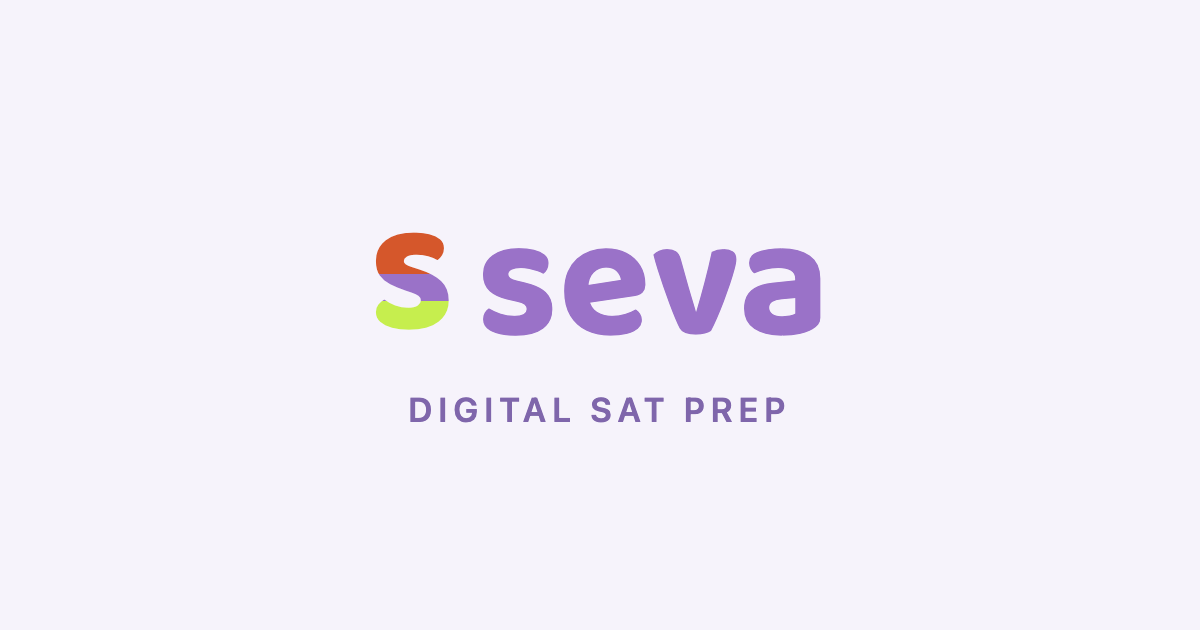
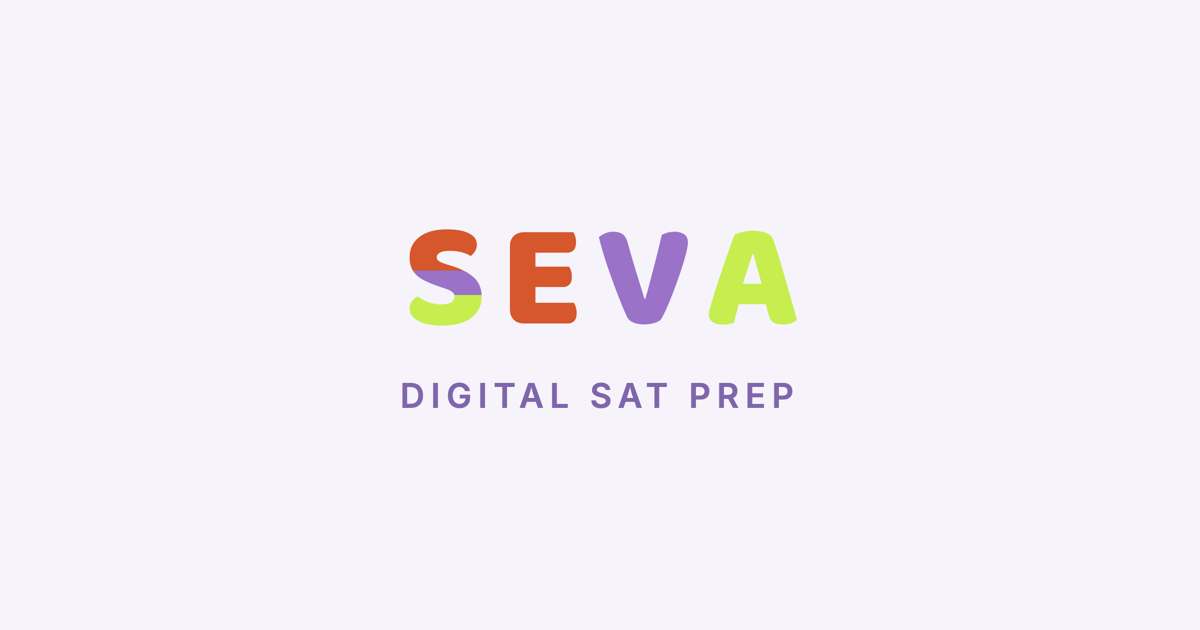
feat(brand): all-caps multicolor SEVA wordmark
Switch the wordmark from the "S seva" lockup to all-caps "SEVA" where the S
is the tri-color mark and each remaining letter takes one brand color —
E orange (#D5572B), V purple (#9A72C8), A lime (#C6EE4E) — per the new
artwork. Multi-color on every background (keeps the S consistent with the
collapsed sidebar mark); tone is still accepted for API compatibility.

Mark.jsx and the favicon/PWA/apple-touch icons are unchanged (the "S" mark
is identical). Regenerate the OG image with the new wordmark.

Verified: prod build clean, 1600 tests green, wordmark rendered and matched
to the artwork at header/mobile/boot sizes and on the navy sidebar via
Playwright.

Changed region(s): [[0.3083, 0.3619, 0.7092, 0.5429], [0.3083, 0.6032, 0.6783, 0.6937]]

diff --git a/src/components/ui/Wordmark.jsx b/src/components/ui/Wordmark.jsx
@@ -1,52 +1,52 @@
-// Wordmark.jsx — the SEVA brand lockup: the tri-color "S" mark + the rounded
-// lowercase "seva" wordmark (Baloo 2). One component feeds every render site
-// (landing header/footer, sidebar, mobile header, legal pages, boot screen) so
-// the mark stays identical everywhere.
+// Wordmark.jsx — the SEVA brand wordmark: all-caps "SEVA" in rounded Baloo 2
+// where the S is the tri-color mark and each remaining letter carries one brand
+// color — E orange, V purple, A lime. One component feeds every render site
+// (landing header/footer, sidebar, mobile header, legal pages, boot screen).
 //
-// `tone` controls the wordmark text color: "dark" (default) renders brand
-// purple for light backgrounds; "light" renders white for dark backgrounds
-// (the navy sidebar). The S mark is tri-color in both. `size` (sm/md/lg) scales
-// the lockup; pass `fontSize` (px) to override for special cases (boot screen).
+// The wordmark is intentionally multi-color on every background (it matches the
+// collapsed sidebar's tri-color S mark). `tone` is still accepted for API
+// compatibility but no longer changes the letter colors. `size` (sm/md/lg)
+// scales the lockup; pass `fontSize` (px) to override (boot screen).
 
 import React from 'react';
 import Mark, { LOGO_COLORS, LOGO_FONT } from './Mark';
 
 const SIZES = { sm: 18, md: 24, lg: 30 };
 
-const WORD_COLOR = {
-  dark:  LOGO_COLORS.purple, // on light backgrounds
-  light: '#FFFFFF',          // on dark backgrounds (navy sidebar)
-};
+// Each letter after the tri-color S takes one band color, in band order.
+const LETTERS = [
+  { ch: 'E', color: LOGO_COLORS.orange },
+  { ch: 'V', color: LOGO_COLORS.purple },
+  { ch: 'A', color: LOGO_COLORS.lime },
+];
 
+// eslint-disable-next-line no-unused-vars
 const Wordmark = ({ size = 'md', tone = 'dark', fontSize, as: As = 'span', style, ...rest }) => {
   const px = fontSize || SIZES[size] || SIZES.md;
-  const wordColor = WORD_COLOR[tone] || WORD_COLOR.dark;
+  const letterStyle = {
+    fontFamily: LOGO_FONT,
+    fontWeight: 800,
+    fontSize: `${px}px`,
+    lineHeight: 0.9,
+    letterSpacing: '-0.02em',
+  };
   return (
     <As
-      aria-label="Seva"
+      aria-label="SEVA"
       style={{
         display: 'inline-flex',
         alignItems: 'center',
-        gap: `${Math.round(px * 0.3)}px`,
+        gap: `${Math.round(px * 0.11)}px`,
         lineHeight: 1,
         userSelect: 'none',
         ...style,
       }}
       {...rest}
     >
-      <Mark size={Math.round(px * 1.18)} decorative />
-      <span
-        style={{
-          fontFamily: LOGO_FONT,
-          fontWeight: 700,
-          fontSize: `${px}px`,
-          letterSpacing: '0.005em',
-          color: wordColor,
-          lineHeight: 1,
-        }}
-      >
-        seva
-      </span>
+      <Mark size={px} decorative />
+      {LETTERS.map(({ ch, color }) => (
+        <span key={ch} style={{ ...letterStyle, color }}>{ch}</span>
+      ))}
     </As>
   );
 };

diff --git a/CLAUDE.md b/CLAUDE.md
@@ -2,7 +2,7 @@
 
 SEVA (formerly PerformSAT) is a digital-SAT prep web app: students take adaptive practice tests, get a diagnostic-driven study plan, drill weak skills, and track score trajectory toward a target. Built on Create React App + Firebase. ~256 JS/JSX files in `src/` (~9.7MB).
 
-The product was renamed PerformSAT → SEVA on 2026-05-21 (briefly via Sura → Seva). The logo (2026-06-15) is a lowercase **"seva"** wordmark in rounded Baloo 2 next to a tri-color **"S" mark** (orange/purple/lime horizontal bands). Both live in `src/components/ui/{Mark,Wordmark}.jsx` — the mark is a Baloo 2 "S" with a vertical gradient clipped to the glyph via `background-clip: text`; the favicon/PWA/OG PNGs in `public/` are rendered from that mark. In prose the brand name is still written **SEVA**. Internal identifiers (the `performsat:` log-scope prefix, `localStorage['performsat:logVerbose']`, the `PERFORMSAT_TEST_EMAIL`/`PERFORMSAT_TEST_PASSWORD` env vars, the `PerformSAT` React component name in `src/App.jsx`, the repo directory `~/PerformSAT/`) deliberately retain the old name to avoid coordinated-rename risk. New code may use either name in identifiers — be consistent within a module.
+The product was renamed PerformSAT → SEVA on 2026-05-21 (briefly via Sura → Seva). The logo (2026-06-15) is all-caps **"SEVA"** in rounded Baloo 2 where the **S is the tri-color mark** (orange/purple/lime horizontal bands) and each remaining letter takes one brand color — **E orange, V purple, A lime**. `src/components/ui/Mark.jsx` is the tri-color S (a Baloo 2 "S" with a vertical gradient clipped to the glyph via `background-clip: text`); it doubles as the favicon and the collapsed-sidebar icon. `src/components/ui/Wordmark.jsx` is the full SEVA wordmark (Mark + colored E/V/A) and feeds every render site. The favicon/PWA/OG PNGs in `public/` are rendered from the mark/wordmark. In prose the brand name is still written **SEVA**. Internal identifiers (the `performsat:` log-scope prefix, `localStorage['performsat:logVerbose']`, the `PERFORMSAT_TEST_EMAIL`/`PERFORMSAT_TEST_PASSWORD` env vars, the `PerformSAT` React component name in `src/App.jsx`, the repo directory `~/PerformSAT/`) deliberately retain the old name to avoid coordinated-rename risk. New code may use either name in identifiers — be consistent within a module.
 
 The codebase is mid-scale, mostly mature, with one large orchestrating file (`src/App.jsx`, ~2.5k lines) that owns view state and practice-session state. The recent direction is closing UX gaps vs Acely AI, surfacing the deeper diagnostic engine, and tightening drill routing to exact-question-type precision (see `docs/DRILL_ROUTING_PLAN.md`).
 
